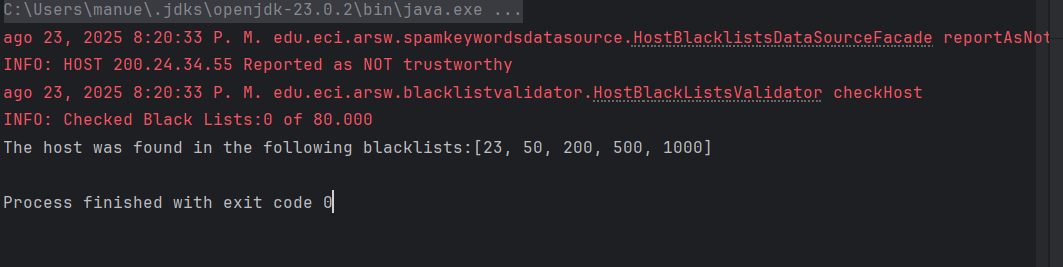
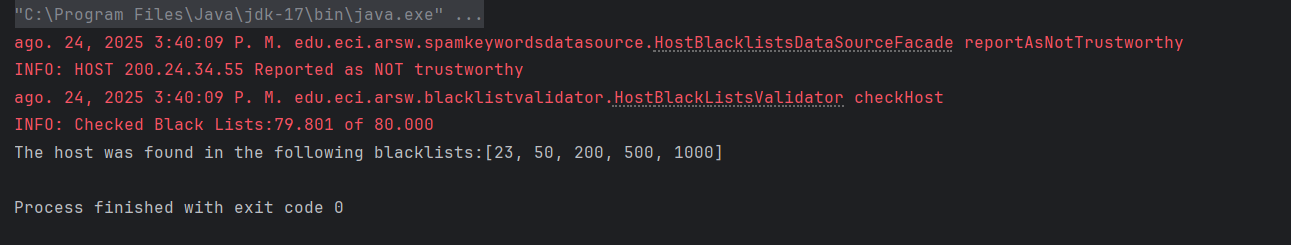
Presentation completed

Changed region(s): [[0.0, 0.0, 0.9934, 0.6571], [0.0, 0.7429, 0.3415, 0.8], [0.0, 0.8286, 0.2794, 0.8857]]

diff --git a/src/main/java/edu/eci/arsw/blacklistvalidator/Threads.java b/src/main/java/edu/eci/arsw/blacklistvalidator/Threads.java
@@ -13,6 +13,7 @@ public class Threads extends Thread {
     private int ocurrencesCount;
     private LinkedList<Integer> blackListOcurrences;
     private static final int BLACK_LIST_ALARM_COUNT = 5;
+    private int checkedListsCount;
 
     public void setInitialServer(int initialServer) {
         this.initialServer = initialServer;
@@ -29,13 +30,14 @@ public class Threads extends Thread {
     public int getOccurrencesCount() {
         return ocurrencesCount;
     }
+    public int getCheckedListsCount() {return checkedListsCount;}
 
     public void run() {
         blackListOcurrences=new LinkedList<>();
         ocurrencesCount=0;
         HostBlacklistsDataSourceFacade skds=HostBlacklistsDataSourceFacade.getInstance();
 
-        int checkedListsCount=0;
+        checkedListsCount=0;
 
         for (int i=initialServer;i<finalServer;i++){
             checkedListsCount++;

diff --git a/src/main/java/edu/eci/arsw/blacklistvalidator/HostBlackListsValidator.java b/src/main/java/edu/eci/arsw/blacklistvalidator/HostBlackListsValidator.java
@@ -70,6 +70,7 @@ public class HostBlackListsValidator {
         for (Threads thread : threads) {
             blackListOcurrences.addAll(thread.getBlackListOcurrences());
             ocurrencesCount += thread.getOccurrencesCount();
+            checkedListsCount += thread.getCheckedListsCount();
         }
 
         if (ocurrencesCount>=BLACK_LIST_ALARM_COUNT){
@@ -88,7 +89,5 @@ public class HostBlackListsValidator {
 
 
     private static final Logger LOG = Logger.getLogger(HostBlackListsValidator.class.getName());
-
-
 
 }

diff --git a/src/main/java/edu/eci/arsw/blacklistvalidator/Main.java b/src/main/java/edu/eci/arsw/blacklistvalidator/Main.java
@@ -14,7 +14,7 @@ public class Main {
 
 	public static void main(String a[]) {
 		HostBlackListsValidator hblv = new HostBlackListsValidator();
-		List<Integer> blackListOcurrences = hblv.checkHost("200.24.34.55", 200);
+		List<Integer> blackListOcurrences = hblv.checkHost("200.24.24.55", 200);
 		System.out.println("The host was found in the following blacklists:" + blackListOcurrences);
 	}
 }

diff --git a/README.md b/README.md
@@ -1,7 +1,8 @@
 # Threads
 ## Integrantes
-- Manuel David Robayo Vega
-- William Camilo Hernandez Deaza
+- *Manuel David Robayo Vega*
+- *William Camilo Hernandez Deaza*
+
 
 ### Parte I - Introducción a Hilos en Java
 1. Complete las clases CountThread, para que las mismas definan el ciclo de vida de un 
@@ -24,7 +25,7 @@ números entre 0 y 16 dando como resultado:
    iv. Cambie el incio con 'start()' por 'run()'. Cómo cambia la salida?, por qué?.  
 
 - Cuando desde la clase principal "iniciamos" los hilos con run(), realmente estamos ejecutando la sección de código del hilo
-desde la clase principal sin realmente utilizar hilos. Por esta razón, la salida muestra los números de los 3 intervalos de
+desde la clase principal sin utilizar hilos. Por esta razón, la salida muestra los números de los 3 intervalos de
 manera secuencial a diferencia de la imagen anterior, donde se los 3 hilos se ejecutaban de manera simultanea pues eran inciados
 correctamente con start().  
   ![3ThreadsRun1](/img/threadsRun1.png)  
@@ -35,16 +36,16 @@ correctamente con start().
 1. Cree una clase de tipo Thread que represente el ciclo de vida de un hilo que haga la búsqueda de un segmento del conjunto de servidores disponibles. 
 Agregue a dicha clase un método que permita 'preguntarle' a las instancias del mismo (los hilos) cuantas ocurrencias de servidores maliciosos ha encontrado o encontró.  
 - Definimos la clase 'Threads', quien se encarga de realizar la búsqueda en el segmento de servidores dado. Para poder preguntar la cantidad de ocurrencias
-encontradas para la ip a otros hilos (sin la restriccion de 5 máximo) establecimos un atrbiuto que almacena el número de ocurrencias con su respectivo método get().  
+encontradasa otros hilos (sin la restriccion de máximo 5 ocurrencias) establecimos un atrbiuto que almacena el número de ocurrencias con su respectivo método get().  
 
 2. Agregue al método 'checkHost' un parámetro entero N, correspondiente al número de hilos entre los que se va a realizar la búsqueda (recuerde tener en cuenta si N es par o impar!). 
 Modifique el código de este método para que divida el espacio de búsqueda entre las N partes indicadas, y paralelice la búsqueda a través de N hilos. Haga que dicha función espere 
 hasta que los N hilos terminen de resolver su respectivo sub-problema, agregue las ocurrencias encontradas por cada hilo a la lista que retorna el método, y entonces calcule 
 (sumando el total de ocurrencuas encontradas por cada hilo) si el número de ocurrencias es mayor o igual a BLACK_LIST_ALARM_COUNT. Si se da este caso, al final se DEBE reportar el host 
 como confiable o no confiable, y mostrar el listado con los números de las listas negras respectivas.  
-- Para poder divir el espacio de búsqueda del método checkHost entre N hilos dividimos el número total de servidores entre N para estableccer los intervalos de cada hilo y se completa
+- Para poder dividir el espacio de búsqueda del método checkHost entre N hilos dividimos el número total de servidores entre N para estableccer los intervalos de cada hilo y se completa
 el último intervalo para no tener inconvenientes con la división. Implementamos un arreglo donde se van creando los hilos y donde se utiliza join() para que el proceso espere hasta que cada
-hilo resuelva su sub-problema. Finalmente se suma las cantidad ocurrencias encontradas en cada hilo  para determinar si la ip es confiable o no confiable, se muestra la lista que retorna el 
+hilo resuelva su sub-problema. Finalmente se suma las cantidad de ocurrencias encontradas en cada hilo  para determinar si la ip es confiable o no confiable, se muestra la lista que retorna el 
 método que es la union de las listas generadas por cada hilo y muestra el LOG que informa si es confiable o no y la cantidad de listas revisadas.  
   ![IpNoTrustWorthy](/img/img3.png)  
   ![IpTrustWorthy](/img/img4.png)  
@@ -53,7 +54,7 @@ método que es la union de las listas generadas por cada hilo y muestra el LOG q
 La estrategia de paralelismo antes implementada es ineficiente en ciertos casos, pues la búsqueda se sigue realizando aún cuando los N hilos (en su conjunto) ya hayan encontrado 
 el número mínimo de ocurrencias requeridas para reportar al servidor como malicioso. Cómo se podría modificar la implementación para minimizar el número de consultas en estos casos?, 
 qué elemento nuevo traería esto al problema?  
-- Para minimizar el número de consultas en caso de que los hilos encuentren los 5 registros y no tengan que buscar hasta el final...
+- Para minimizar el número de consultas en caso de que los hilos encuentren los 5 registros y no tengan que buscar hasta el final tocaria crear un atributo global donde los hilos sumen sus ocurrencias y paren cuando, al realizar la verificacion el numero de ocurrencias es mayor al numero minimo establecido de ocurrencias. Esta fraccion de codigo puede generar condicion de carrera por lo que es importante generar un bloqueo en este segmento de codigo para evitar que dos hilos modifiquen la variable al mismo tiempo y se genere una pérdida de información y rendimiento.
   
 ### Parte III - Evaluación de Desempeño
 A partir de lo anterior, implemente la siguiente secuencia de experimentos para realizar las validación de direcciones IP dispersas (por ejemplo 202.24.34.55), tomando los tiempos de 
@@ -74,5 +75,26 @@ ejecución de los mismos (asegúrese de hacerlos en la misma máquina):
 Con lo anterior, y con los tiempos de ejecución dados, haga una gráfica de tiempo de solución vs. número de hilos. Analice y plantee hipótesis con su compañero para las siguientes preguntas.  
    ![ThreadsVSTime](/img/img6.png)
 
+### Parte IV - Ejercicio Black List Search
 
-   
+1. Según la ley de Amdahls:
+
+![Ley de Amdahls](/img/Ley.png)
+
+, donde S(n) es el mejoramiento teórico del desempeño, P la fracción paralelizable del algoritmo, y n el número de hilos, a mayor n, mayor debería ser dicha mejora. Por qué el mejor desempeño no se logra con los 500 hilos?, cómo se compara este desempeño cuando se usan 200?.
+
+- A partir de 100 hilos los cambios de mejora son imperceptibles para el entorno utilizado para medir el rendimiento de la CPU y la memoria. Creemos que a partir de este numero no hay margen de mejora pues el porcentaje de codigo paralelizable impide una mejoria con una mayor cantida de hilos.
+
+2. Cómo se comporta la solución usando tantos hilos de procesamiento como núcleos comparado con el resultado de usar el doble de éste?
+
+- De acuerdo a los resultados obtenidos en el laboratorio, al usar el doble de hilos que de nucleos disponibles en el dispositivo apreciamos una reducción del 50% de tiempo total en comparacion a utilizar la misma cantidad de hilos que de nucleos.
+
+3. De acuerdo con lo anterior, si para este problema en lugar de 100 hilos en una sola CPU se pudiera usar 1 hilo en cada una de 100 máquinas hipotéticas, la ley de Amdahls se aplicaría mejor?  
+
+- En el caso hipotetico en donde tengamos un hilo por cada 100 maquinas(100 cores reales) la ley de Amdahls se aplicaria de mejor forma debido a que todos los cores tendrian los recursos completos disponibles para si mismos, lo unico que empeoraria las cosas es la comunicación entre los dispositivos
+
+Si en lugar de esto se usaran c hilos en 100/c máquinas distribuidas (siendo c es el número de núcleos de dichas máquinas), se mejoraría?. Explique su respuesta.
+
+- Cuando se usan c hilos en 100/c maquinas se obtendria un resultado incluso mejor ya que cada maquina operaria en su punto optimo de nucleos, el pararelismo local evitaria una comunicacion tan extensa con otras maquinas y aprovecha el paralelismo local.
+
+ 
